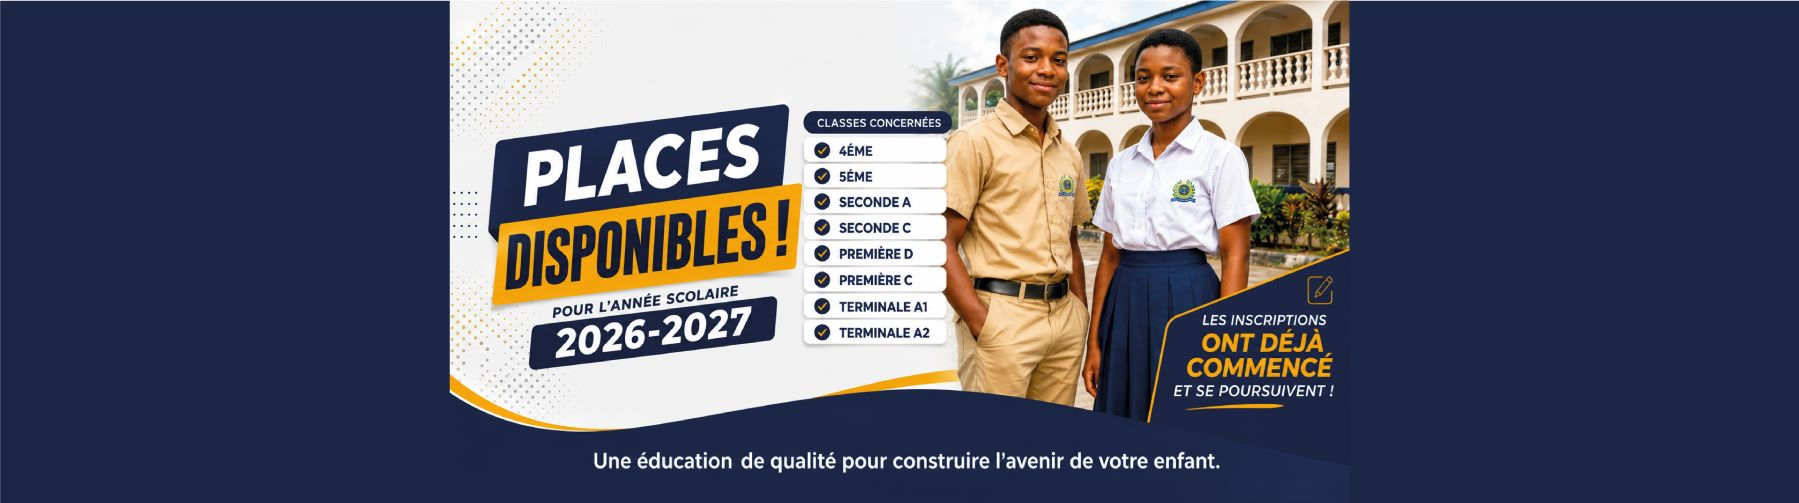
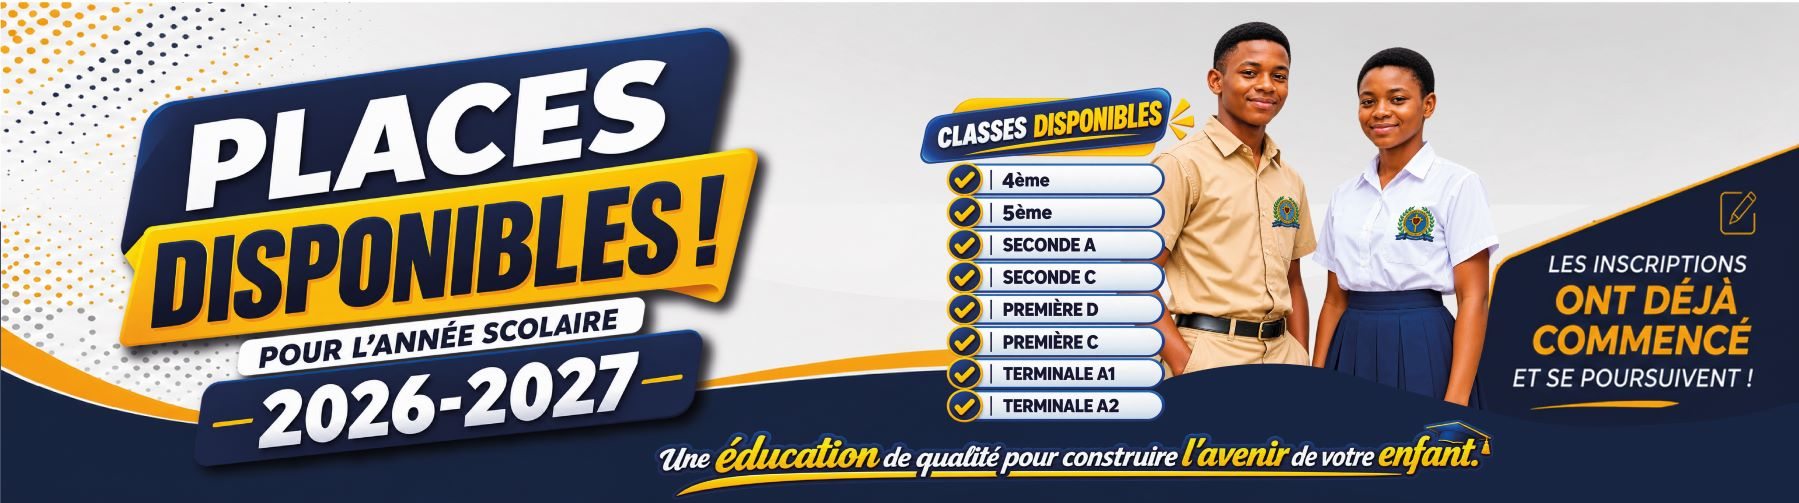
Ajoute l'affiche du decoupage de l'annee au carrousel
Affiche officielle du Ministere de l'Education nationale : les trois
trimestres et les dates de conges 2026-2027. Quatrieme diapositive de
l'accueil, au meme format que les deux autres (1799x503), donc meme
traitement — affichee entiere, jamais rognee.

diff --git a/index.html b/index.html
@@ -12,14 +12,14 @@
 <link rel="preconnect" href="https://fonts.googleapis.com">
 <link rel="preconnect" href="https://fonts.gstatic.com" crossorigin>
 <link href="https://fonts.googleapis.com/css2?family=Fraunces:opsz,wght@9..144,400;9..144,500;9..144,600;9..144,700&family=Work+Sans:wght@400;500;600;700&display=swap" rel="stylesheet">
-<link rel="stylesheet" href="assets/css/01-fondations.css?v=20260830k">
-<link rel="stylesheet" href="assets/css/02-transport.css?v=20260830k">
-<link rel="stylesheet" href="assets/css/03-cartes.css?v=20260830k">
-<link rel="stylesheet" href="assets/css/04-charpente.css?v=20260830k">
-<link rel="stylesheet" href="assets/css/05-bandeaux.css?v=20260830k">
-<link rel="stylesheet" href="assets/css/06-interactions.css?v=20260830k">
-<link rel="stylesheet" href="assets/css/07-matieres.css?v=20260830k">
-<link rel="stylesheet" href="assets/css/08-espaces.css?v=20260830k">
+<link rel="stylesheet" href="assets/css/01-fondations.css?v=20260904">
+<link rel="stylesheet" href="assets/css/02-transport.css?v=20260904">
+<link rel="stylesheet" href="assets/css/03-cartes.css?v=20260904">
+<link rel="stylesheet" href="assets/css/04-charpente.css?v=20260904">
+<link rel="stylesheet" href="assets/css/05-bandeaux.css?v=20260904">
+<link rel="stylesheet" href="assets/css/06-interactions.css?v=20260904">
+<link rel="stylesheet" href="assets/css/07-matieres.css?v=20260904">
+<link rel="stylesheet" href="assets/css/08-espaces.css?v=20260904">
 </head>
 <body>
 
@@ -116,8 +116,17 @@
       <div class="ms-hint"><b>Places disponibles 2026-2027</b> — cliquez sur l'affiche pour l'agrandir</div>
     </div>
 
-    <!-- ---------- SLIDE 3 et suivants ----------
-         Même format que les précédents : le visuel s'inscrit automatiquement
+    <!-- ---------- SLIDE 4 — Découpage de l'année scolaire ----------
+         Affiche officielle du Ministère de l'Éducation nationale : les
+         trois trimestres et les dates de congés. Même format que les
+         précédentes, donc même traitement. -->
+    <div class="hero-slide media-slide flyer-decoupage" data-label="Découpage de l'année">
+      <img src="assets/images/affiche-decoupage.jpg" alt="Découpage de l'année scolaire 2026-2027, Ministère de l'Éducation nationale de Côte d'Ivoire. Premier trimestre du 14 septembre au 4 décembre 2026. Deuxième trimestre du 7 décembre 2026 au 12 mars 2027. Troisième trimestre du 15 mars au 11 juin 2027. Congés : Toussaint du 23 octobre au 1er novembre 2026, Noël du 18 décembre 2026 au 3 janvier 2027, février du 5 au 14 février 2027, Pâques du 19 mars au 4 avril 2027, grandes vacances du 30 juillet au 12 septembre 2027.">
+      <div class="ms-hint"><b>Découpage de l'année 2026-2027</b> — cliquez sur l'affiche pour l'agrandir</div>
+    </div>
+
+    <!-- ---------- SLIDE 5 et suivantes ----------
+         Même format que les précédentes : le visuel s'inscrit automatiquement
          dans le gabarit sans déformation ni rognage.
     <div class="hero-slide media-slide" data-label="Titre de l'annonce">
       <img src="chemin-vers-le-visuel.jpg" alt="Description de l'annonce">
@@ -330,7 +339,7 @@
     </div>
   </footer>
 
-<script src="assets/js/commun.js?v=20260830k"></script>
-<script src="assets/js/accueil.js?v=20260830k"></script>
+<script src="assets/js/commun.js?v=20260904"></script>
+<script src="assets/js/accueil.js?v=20260904"></script>
 </body>
 </html>

diff --git a/actualites.html b/actualites.html
@@ -12,14 +12,14 @@
 <link rel="preconnect" href="https://fonts.googleapis.com">
 <link rel="preconnect" href="https://fonts.gstatic.com" crossorigin>
 <link href="https://fonts.googleapis.com/css2?family=Fraunces:opsz,wght@9..144,400;9..144,500;9..144,600;9..144,700&family=Work+Sans:wght@400;500;600;700&display=swap" rel="stylesheet">
-<link rel="stylesheet" href="assets/css/01-fondations.css?v=20260830k">
-<link rel="stylesheet" href="assets/css/02-transport.css?v=20260830k">
-<link rel="stylesheet" href="assets/css/03-cartes.css?v=20260830k">
-<link rel="stylesheet" href="assets/css/04-charpente.css?v=20260830k">
-<link rel="stylesheet" href="assets/css/05-bandeaux.css?v=20260830k">
-<link rel="stylesheet" href="assets/css/06-interactions.css?v=20260830k">
-<link rel="stylesheet" href="assets/css/07-matieres.css?v=20260830k">
-<link rel="stylesheet" href="assets/css/08-espaces.css?v=20260830k">
+<link rel="stylesheet" href="assets/css/01-fondations.css?v=20260904">
+<link rel="stylesheet" href="assets/css/02-transport.css?v=20260904">
+<link rel="stylesheet" href="assets/css/03-cartes.css?v=20260904">
+<link rel="stylesheet" href="assets/css/04-charpente.css?v=20260904">
+<link rel="stylesheet" href="assets/css/05-bandeaux.css?v=20260904">
+<link rel="stylesheet" href="assets/css/06-interactions.css?v=20260904">
+<link rel="stylesheet" href="assets/css/07-matieres.css?v=20260904">
+<link rel="stylesheet" href="assets/css/08-espaces.css?v=20260904">
 </head>
 <body>
 
@@ -182,7 +182,7 @@
     </div>
   </footer>
 
-<script src="assets/js/commun.js?v=20260830k"></script>
-<script src="assets/js/actualites.js?v=20260830k"></script>
+<script src="assets/js/commun.js?v=20260904"></script>
+<script src="assets/js/actualites.js?v=20260904"></script>
 </body>
 </html>

diff --git a/espace-enseignant.html b/espace-enseignant.html
@@ -12,14 +12,14 @@
 <link rel="preconnect" href="https://fonts.googleapis.com">
 <link rel="preconnect" href="https://fonts.gstatic.com" crossorigin>
 <link href="https://fonts.googleapis.com/css2?family=Fraunces:opsz,wght@9..144,400;9..144,500;9..144,600;9..144,700&family=Work+Sans:wght@400;500;600;700&display=swap" rel="stylesheet">
-<link rel="stylesheet" href="assets/css/01-fondations.css?v=20260830k">
-<link rel="stylesheet" href="assets/css/02-transport.css?v=20260830k">
-<link rel="stylesheet" href="assets/css/03-cartes.css?v=20260830k">
-<link rel="stylesheet" href="assets/css/04-charpente.css?v=20260830k">
-<link rel="stylesheet" href="assets/css/05-bandeaux.css?v=20260830k">
-<link rel="stylesheet" href="assets/css/06-interactions.css?v=20260830k">
-<link rel="stylesheet" href="assets/css/07-matieres.css?v=20260830k">
-<link rel="stylesheet" href="assets/css/08-espaces.css?v=20260830k">
+<link rel="stylesheet" href="assets/css/01-fondations.css?v=20260904">
+<link rel="stylesheet" href="assets/css/02-transport.css?v=20260904">
+<link rel="stylesheet" href="assets/css/03-cartes.css?v=20260904">
+<link rel="stylesheet" href="assets/css/04-charpente.css?v=20260904">
+<link rel="stylesheet" href="assets/css/05-bandeaux.css?v=20260904">
+<link rel="stylesheet" href="assets/css/06-interactions.css?v=20260904">
+<link rel="stylesheet" href="assets/css/07-matieres.css?v=20260904">
+<link rel="stylesheet" href="assets/css/08-espaces.css?v=20260904">
 </head>
 <body>
 
@@ -184,7 +184,7 @@
     </div>
   </footer>
 
-<script src="assets/js/commun.js?v=20260830k"></script>
-<script src="assets/js/enseignant.js?v=20260830k"></script>
+<script src="assets/js/commun.js?v=20260904"></script>
+<script src="assets/js/enseignant.js?v=20260904"></script>
 </body>
 </html>

diff --git a/scolarite.html b/scolarite.html
@@ -12,14 +12,14 @@
 <link rel="preconnect" href="https://fonts.googleapis.com">
 <link rel="preconnect" href="https://fonts.gstatic.com" crossorigin>
 <link href="https://fonts.googleapis.com/css2?family=Fraunces:opsz,wght@9..144,400;9..144,500;9..144,600;9..144,700&family=Work+Sans:wght@400;500;600;700&display=swap" rel="stylesheet">
-<link rel="stylesheet" href="assets/css/01-fondations.css?v=20260830k">
-<link rel="stylesheet" href="assets/css/02-transport.css?v=20260830k">
-<link rel="stylesheet" href="assets/css/03-cartes.css?v=20260830k">
-<link rel="stylesheet" href="assets/css/04-charpente.css?v=20260830k">
-<link rel="stylesheet" href="assets/css/05-bandeaux.css?v=20260830k">
-<link rel="stylesheet" href="assets/css/06-interactions.css?v=20260830k">
-<link rel="stylesheet" href="assets/css/07-matieres.css?v=20260830k">
-<link rel="stylesheet" href="assets/css/08-espaces.css?v=20260830k">
+<link rel="stylesheet" href="assets/css/01-fondations.css?v=20260904">
+<link rel="stylesheet" href="assets/css/02-transport.css?v=20260904">
+<link rel="stylesheet" href="assets/css/03-cartes.css?v=20260904">
+<link rel="stylesheet" href="assets/css/04-charpente.css?v=20260904">
+<link rel="stylesheet" href="assets/css/05-bandeaux.css?v=20260904">
+<link rel="stylesheet" href="assets/css/06-interactions.css?v=20260904">
+<link rel="stylesheet" href="assets/css/07-matieres.css?v=20260904">
+<link rel="stylesheet" href="assets/css/08-espaces.css?v=20260904">
 </head>
 <body>
 
@@ -411,7 +411,7 @@
     </div>
   </footer>
 
-<script src="assets/js/commun.js?v=20260830k"></script>
-<script src="assets/js/scolarite.js?v=20260830k"></script>
+<script src="assets/js/commun.js?v=20260904"></script>
+<script src="assets/js/scolarite.js?v=20260904"></script>
 </body>
 </html>

diff --git a/paiement.html b/paiement.html
@@ -12,14 +12,14 @@
 <link rel="preconnect" href="https://fonts.googleapis.com">
 <link rel="preconnect" href="https://fonts.gstatic.com" crossorigin>
 <link href="https://fonts.googleapis.com/css2?family=Fraunces:opsz,wght@9..144,400;9..144,500;9..144,600;9..144,700&family=Work+Sans:wght@400;500;600;700&display=swap" rel="stylesheet">
-<link rel="stylesheet" href="assets/css/01-fondations.css?v=20260830k">
-<link rel="stylesheet" href="assets/css/02-transport.css?v=20260830k">
-<link rel="stylesheet" href="assets/css/03-cartes.css?v=20260830k">
-<link rel="stylesheet" href="assets/css/04-charpente.css?v=20260830k">
-<link rel="stylesheet" href="assets/css/05-bandeaux.css?v=20260830k">
-<link rel="stylesheet" href="assets/css/06-interactions.css?v=20260830k">
-<link rel="stylesheet" href="assets/css/07-matieres.css?v=20260830k">
-<link rel="stylesheet" href="assets/css/08-espaces.css?v=20260830k">
+<link rel="stylesheet" href="assets/css/01-fondations.css?v=20260904">
+<link rel="stylesheet" href="assets/css/02-transport.css?v=20260904">
+<link rel="stylesheet" href="assets/css/03-cartes.css?v=20260904">
+<link rel="stylesheet" href="assets/css/04-charpente.css?v=20260904">
+<link rel="stylesheet" href="assets/css/05-bandeaux.css?v=20260904">
+<link rel="stylesheet" href="assets/css/06-interactions.css?v=20260904">
+<link rel="stylesheet" href="assets/css/07-matieres.css?v=20260904">
+<link rel="stylesheet" href="assets/css/08-espaces.css?v=20260904">
 </head>
 <body>
 
@@ -367,7 +367,7 @@
     </div>
   </footer>
 
-<script src="assets/js/commun.js?v=20260830k"></script>
-<script src="assets/js/paiement.js?v=20260830k"></script>
+<script src="assets/js/commun.js?v=20260904"></script>
+<script src="assets/js/paiement.js?v=20260904"></script>
 </body>
 </html>

diff --git a/contact.html b/contact.html
@@ -12,14 +12,14 @@
 <link rel="preconnect" href="https://fonts.googleapis.com">
 <link rel="preconnect" href="https://fonts.gstatic.com" crossorigin>
 <link href="https://fonts.googleapis.com/css2?family=Fraunces:opsz,wght@9..144,400;9..144,500;9..144,600;9..144,700&family=Work+Sans:wght@400;500;600;700&display=swap" rel="stylesheet">
-<link rel="stylesheet" href="assets/css/01-fondations.css?v=20260830k">
-<link rel="stylesheet" href="assets/css/02-transport.css?v=20260830k">
-<link rel="stylesheet" href="assets/css/03-cartes.css?v=20260830k">
-<link rel="stylesheet" href="assets/css/04-charpente.css?v=20260830k">
-<link rel="stylesheet" href="assets/css/05-bandeaux.css?v=20260830k">
-<link rel="stylesheet" href="assets/css/06-interactions.css?v=20260830k">
-<link rel="stylesheet" href="assets/css/07-matieres.css?v=20260830k">
-<link rel="stylesheet" href="assets/css/08-espaces.css?v=20260830k">
+<link rel="stylesheet" href="assets/css/01-fondations.css?v=20260904">
+<link rel="stylesheet" href="assets/css/02-transport.css?v=20260904">
+<link rel="stylesheet" href="assets/css/03-cartes.css?v=20260904">
+<link rel="stylesheet" href="assets/css/04-charpente.css?v=20260904">
+<link rel="stylesheet" href="assets/css/05-bandeaux.css?v=20260904">
+<link rel="stylesheet" href="assets/css/06-interactions.css?v=20260904">
+<link rel="stylesheet" href="assets/css/07-matieres.css?v=20260904">
+<link rel="stylesheet" href="assets/css/08-espaces.css?v=20260904">
 </head>
 <body>
 
@@ -242,7 +242,7 @@
     </div>
   </footer>
 
-<script src="assets/js/commun.js?v=20260830k"></script>
-<script src="assets/js/contact.js?v=20260830k"></script>
+<script src="assets/js/commun.js?v=20260904"></script>
+<script src="assets/js/contact.js?v=20260904"></script>
 </body>
 </html>

diff --git a/admissions.html b/admissions.html
@@ -12,14 +12,14 @@
 <link rel="preconnect" href="https://fonts.googleapis.com">
 <link rel="preconnect" href="https://fonts.gstatic.com" crossorigin>
 <link href="https://fonts.googleapis.com/css2?family=Fraunces:opsz,wght@9..144,400;9..144,500;9..144,600;9..144,700&family=Work+Sans:wght@400;500;600;700&display=swap" rel="stylesheet">
-<link rel="stylesheet" href="assets/css/01-fondations.css?v=20260830k">
-<link rel="stylesheet" href="assets/css/02-transport.css?v=20260830k">
-<link rel="stylesheet" href="assets/css/03-cartes.css?v=20260830k">
-<link rel="stylesheet" href="assets/css/04-charpente.css?v=20260830k">
-<link rel="stylesheet" href="assets/css/05-bandeaux.css?v=20260830k">
-<link rel="stylesheet" href="assets/css/06-interactions.css?v=20260830k">
-<link rel="stylesheet" href="assets/css/07-matieres.css?v=20260830k">
-<link rel="stylesheet" href="assets/css/08-espaces.css?v=20260830k">
+<link rel="stylesheet" href="assets/css/01-fondations.css?v=20260904">
+<link rel="stylesheet" href="assets/css/02-transport.css?v=20260904">
+<link rel="stylesheet" href="assets/css/03-cartes.css?v=20260904">
+<link rel="stylesheet" href="assets/css/04-charpente.css?v=20260904">
+<link rel="stylesheet" href="assets/css/05-bandeaux.css?v=20260904">
+<link rel="stylesheet" href="assets/css/06-interactions.css?v=20260904">
+<link rel="stylesheet" href="assets/css/07-matieres.css?v=20260904">
+<link rel="stylesheet" href="assets/css/08-espaces.css?v=20260904">
 </head>
 <body>
 
@@ -623,6 +623,6 @@
     </div>
   </footer>
 
-<script src="assets/js/commun.js?v=20260830k"></script>
+<script src="assets/js/commun.js?v=20260904"></script>
 </body>
 </html>

diff --git a/etablissement.html b/etablissement.html
@@ -12,14 +12,14 @@
 <link rel="preconnect" href="https://fonts.googleapis.com">
 <link rel="preconnect" href="https://fonts.gstatic.com" crossorigin>
 <link href="https://fonts.googleapis.com/css2?family=Fraunces:opsz,wght@9..144,400;9..144,500;9..144,600;9..144,700&family=Work+Sans:wght@400;500;600;700&display=swap" rel="stylesheet">
-<link rel="stylesheet" href="assets/css/01-fondations.css?v=20260830k">
-<link rel="stylesheet" href="assets/css/02-transport.css?v=20260830k">
-<link rel="stylesheet" href="assets/css/03-cartes.css?v=20260830k">
-<link rel="stylesheet" href="assets/css/04-charpente.css?v=20260830k">
-<link rel="stylesheet" href="assets/css/05-bandeaux.css?v=20260830k">
-<link rel="stylesheet" href="assets/css/06-interactions.css?v=20260830k">
-<link rel="stylesheet" href="assets/css/07-matieres.css?v=20260830k">
-<link rel="stylesheet" href="assets/css/08-espaces.css?v=20260830k">
+<link rel="stylesheet" href="assets/css/01-fondations.css?v=20260904">
+<link rel="stylesheet" href="assets/css/02-transport.css?v=20260904">
+<link rel="stylesheet" href="assets/css/03-cartes.css?v=20260904">
+<link rel="stylesheet" href="assets/css/04-charpente.css?v=20260904">
+<link rel="stylesheet" href="assets/css/05-bandeaux.css?v=20260904">
+<link rel="stylesheet" href="assets/css/06-interactions.css?v=20260904">
+<link rel="stylesheet" href="assets/css/07-matieres.css?v=20260904">
+<link rel="stylesheet" href="assets/css/08-espaces.css?v=20260904">
 </head>
 <body>
 
@@ -251,6 +251,6 @@
     </div>
   </footer>
 
-<script src="assets/js/commun.js?v=20260830k"></script>
+<script src="assets/js/commun.js?v=20260904"></script>
 </body>
 </html>

diff --git a/vie-scolaire.html b/vie-scolaire.html
@@ -12,14 +12,14 @@
 <link rel="preconnect" href="https://fonts.googleapis.com">
 <link rel="preconnect" href="https://fonts.gstatic.com" crossorigin>
 <link href="https://fonts.googleapis.com/css2?family=Fraunces:opsz,wght@9..144,400;9..144,500;9..144,600;9..144,700&family=Work+Sans:wght@400;500;600;700&display=swap" rel="stylesheet">
-<link rel="stylesheet" href="assets/css/01-fondations.css?v=20260830k">
-<link rel="stylesheet" href="assets/css/02-transport.css?v=20260830k">
-<link rel="stylesheet" href="assets/css/03-cartes.css?v=20260830k">
-<link rel="stylesheet" href="assets/css/04-charpente.css?v=20260830k">
-<link rel="stylesheet" href="assets/css/05-bandeaux.css?v=20260830k">
-<link rel="stylesheet" href="assets/css/06-interactions.css?v=20260830k">
-<link rel="stylesheet" href="assets/css/07-matieres.css?v=20260830k">
-<link rel="stylesheet" href="assets/css/08-espaces.css?v=20260830k">
+<link rel="stylesheet" href="assets/css/01-fondations.css?v=20260904">
+<link rel="stylesheet" href="assets/css/02-transport.css?v=20260904">
+<link rel="stylesheet" href="assets/css/03-cartes.css?v=20260904">
+<link rel="stylesheet" href="assets/css/04-charpente.css?v=20260904">
+<link rel="stylesheet" href="assets/css/05-bandeaux.css?v=20260904">
+<link rel="stylesheet" href="assets/css/06-interactions.css?v=20260904">
+<link rel="stylesheet" href="assets/css/07-matieres.css?v=20260904">
+<link rel="stylesheet" href="assets/css/08-espaces.css?v=20260904">
 </head>
 <body>
 
@@ -327,6 +327,6 @@
     </div>
   </footer>
 
-<script src="assets/js/commun.js?v=20260830k"></script>
+<script src="assets/js/commun.js?v=20260904"></script>
 </body>
 </html>

diff --git a/assets/css/05-bandeaux.css b/assets/css/05-bandeaux.css
@@ -3,7 +3,7 @@
    Fichier 5 sur 8 - charge dans cet ordre par les pages.
    Ne pas reordonner : la cascade en depend.
    ========================================================== */
-  /* ---------- Les deux affiches du carrousel ----------
+  /* ---------- Les affiches du carrousel ----------
    Une affiche n'est pas une photographie : elle porte des tarifs, des
    dates, un numéro d'infoline. La rogner, c'est perdre l'information.
    Le réglage précédent la faisait couvrir tout le cadre, en comptant sur
@@ -18,16 +18,19 @@
    détache alors comme un panneau posé sur le marine, ce qui la cadre
    nettement. */
 .hero-slide.flyer-recrutement,
-.hero-slide.flyer-inscriptions{
+.hero-slide.flyer-inscriptions,
+.hero-slide.flyer-decoupage{
 background:var(--navy);
     padding:0 0 58px;   /* la bande des contrôles reste réservée */
 }
 .hero-slide.flyer-recrutement img,
-.hero-slide.flyer-inscriptions img{
+.hero-slide.flyer-inscriptions img,
+.hero-slide.flyer-decoupage img{
 width:100%;height:100%;object-fit:contain;object-position:center center;cursor:zoom-in;
 }
 .hero-slide.flyer-recrutement .ms-hint,
-.hero-slide.flyer-inscriptions .ms-hint{
+.hero-slide.flyer-inscriptions .ms-hint,
+.hero-slide.flyer-decoupage .ms-hint{
 display:flex;background:none;height:58px;
 }
 
